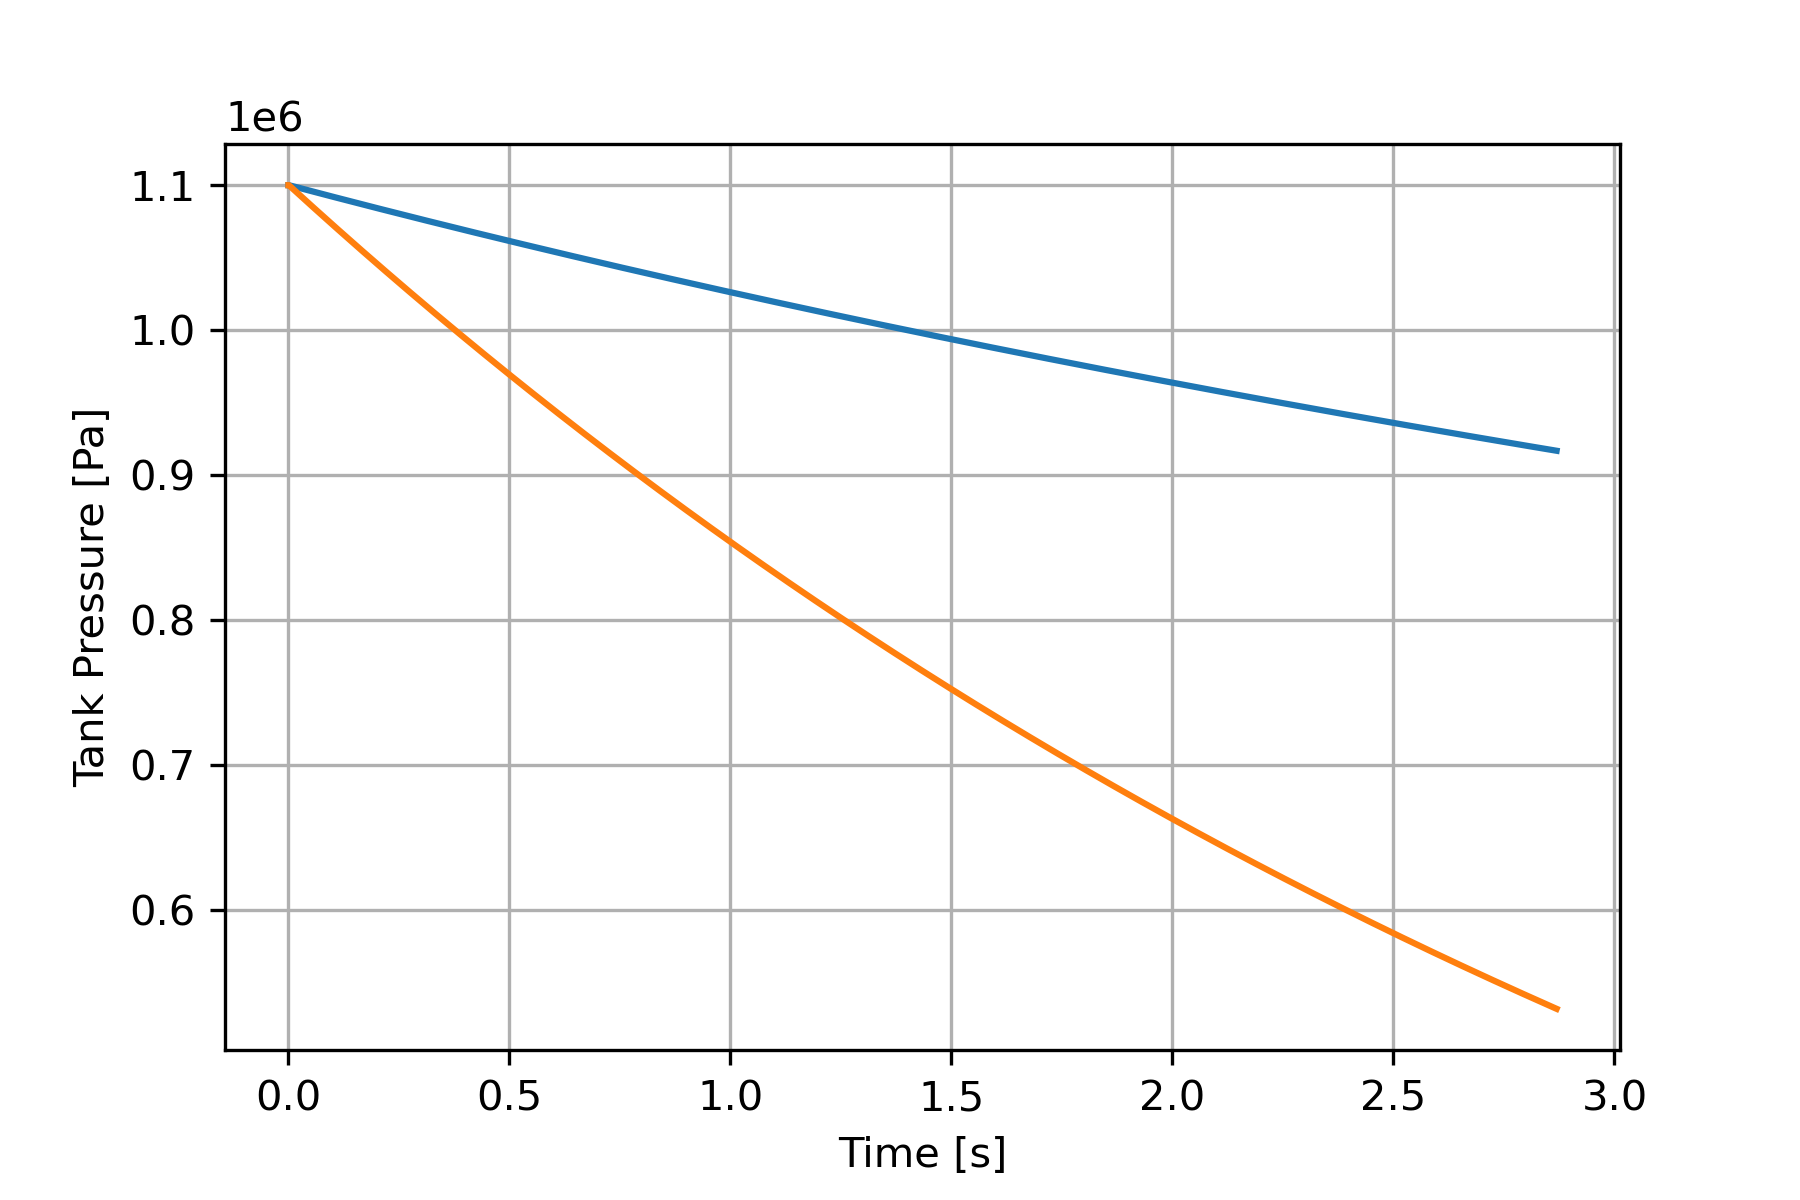
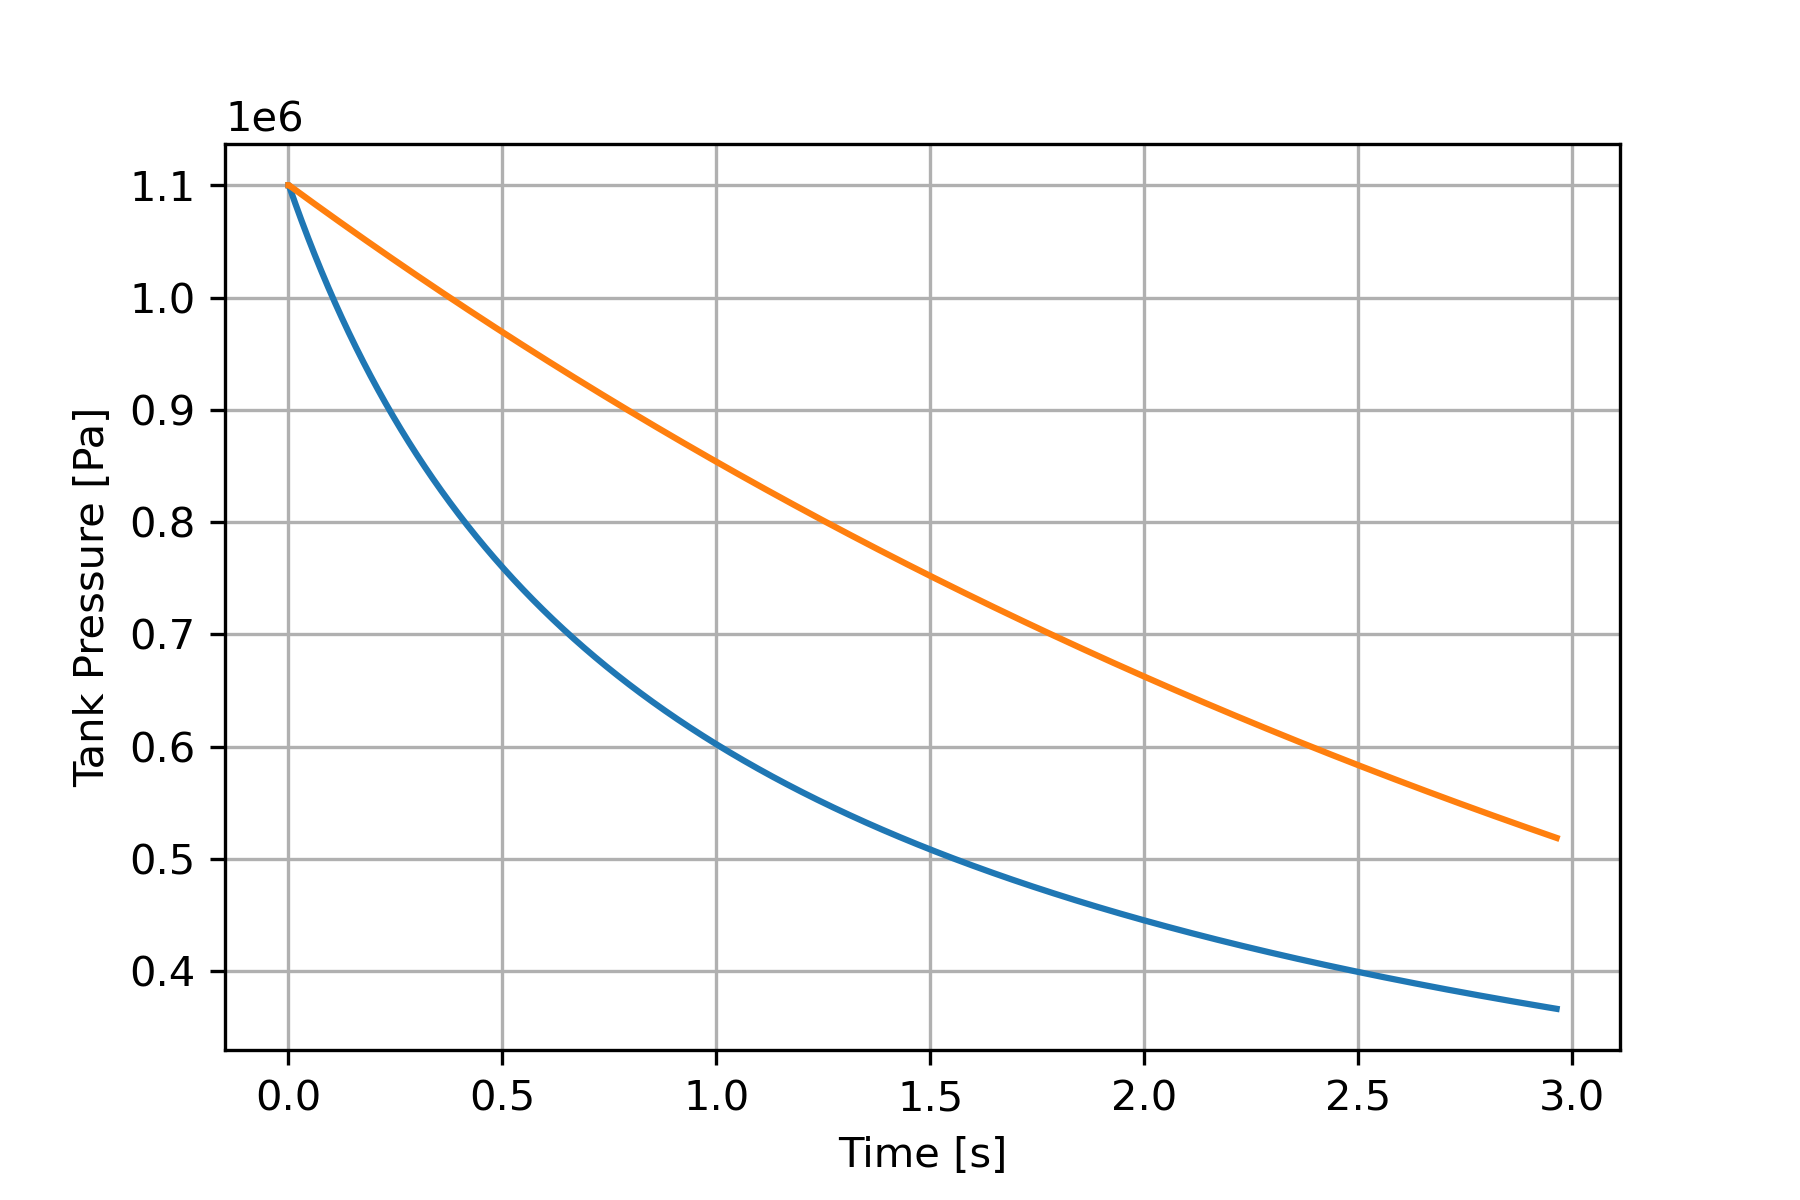
Added OF ratio Comparison

diff --git a/Blowout/AirBlowout.py b/Blowout/AirBlowout.py
@@ -107,14 +107,21 @@ class Solver:
             
         print("Time: ",t,"mass: ", m[count], "mdot: ", mdot[count], "Pressure: ",P[count])
         return mdot, P, time
+        
+    def OFratio(self, mdot_a,mdot_f):
+        OF = []
+        for count in range(len(mdot_f)):
+            OFtemp = mdot_a[count]/mdot_f[count]
+            OF.append(OFtemp)
+
+        return OF
             
 
 """Fuel tank Calcs"""
 Pt = 11*10**5           #Pa, initial pressure in both tanks
-V_f = 0.00806903        #m^3, volume of air tank
 Ae_f = 9.77809*10**-8   #m^2, Exit Area
-VR = 0.2                #Volume ratio of fuel to air in fuel tank
-m_f = 0.015             #kg, inital fuel mass
+VR = 2.000              #Volume ratio of fuel to air in fuel tank
+m_f = 0.01100           #kg, inital fuel mass
 
 dt = 0.001
 
@@ -129,6 +136,8 @@ Ae_a = 5.04112*10**-6  #m^2, Exit Area
 tf = t[-1]
 
 mdot_a, P_a, t_a = SolverInstance.airTank(dt, V_a, Ae_a, tf)
+
+OF = SolverInstance.OFratio(mdot_a,mdot_f)
 
 plt.figure(1)
 plt.clf()
@@ -152,6 +161,15 @@ plt.xlabel("Time [s]")
 plt.ylabel("Tank Pressure [Pa]")
 plt.savefig('Pressure_vs_time.png', dpi=300)
 plt.legend()
+
+plt.figure(3)
+plt.clf()
+plt.plot(t, OF)
+
+plt.grid(1)
+plt.xlabel("Time [s]")
+plt.ylabel("OF ratio")
+plt.savefig('OF_vs_time.png', dpi=300)
 
 
 plt.ion()
